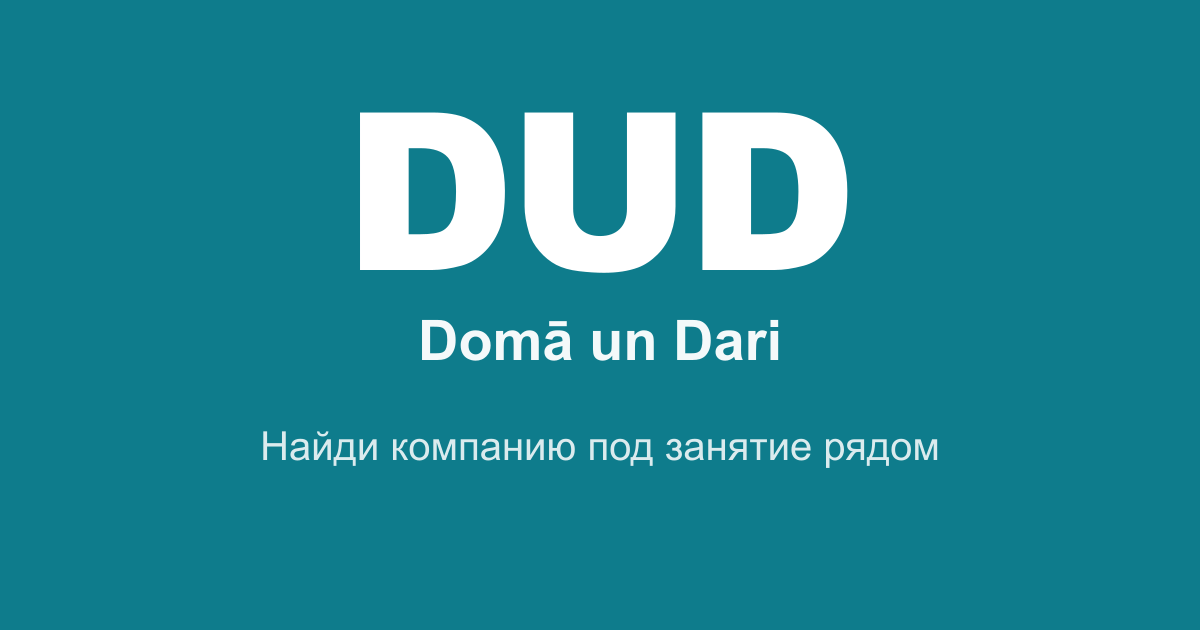
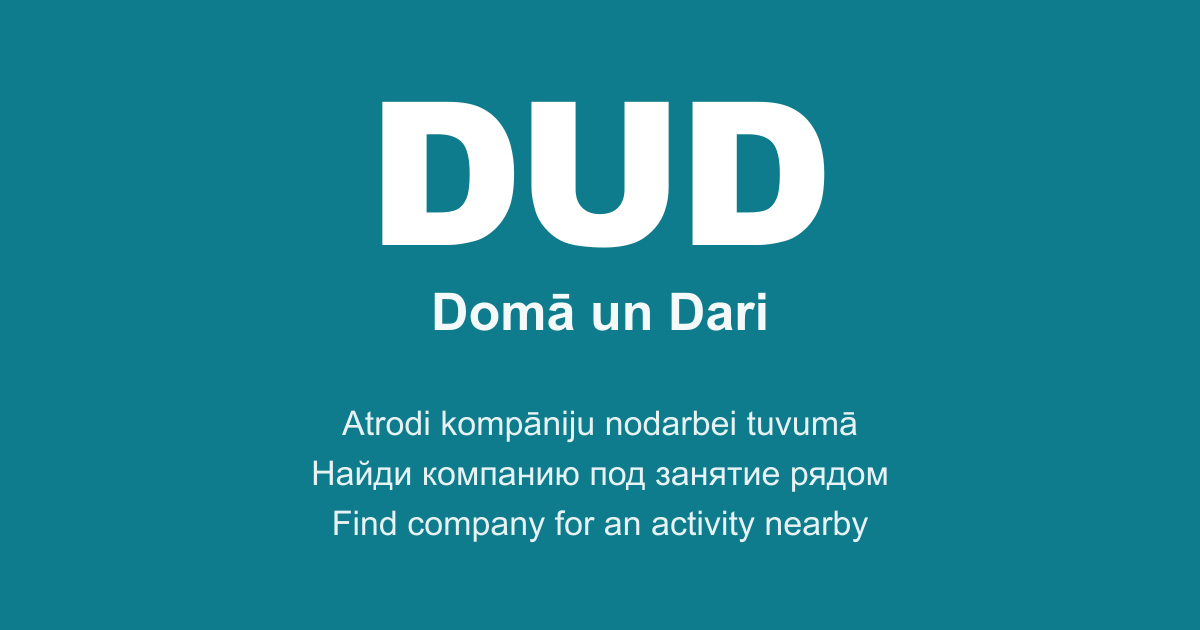
Trilingual link preview (LV / RU / EN)
OG image and meta description now show the tagline in Latvian, Russian and
English under DUD / Domā un Dari. Link previews are fetched once and cached
per-link (not personalized), so a fixed trilingual card fits Latvia's mix.

Changed region(s): [[0.2775, 0.1508, 0.7092, 0.573], [0.2158, 0.6333, 0.8017, 0.7841], [0.2775, 0.8143, 0.74, 0.8746]]

diff --git a/src/app/layout.tsx b/src/app/layout.tsx
@@ -20,11 +20,11 @@ const unbounded = Unbounded({
 export const metadata: Metadata = {
   metadataBase: new URL("https://dud.lv"),
   title: "DUD — Domā un Dari",
-  description: "Найди компанию под занятие рядом — кофе, спорт, прогулки.",
+  description: "Atrodi kompāniju nodarbei tuvumā · Найди компанию под занятие рядом · Find company for an activity nearby",
   manifest: "/manifest.json",
   openGraph: {
     title: "DUD — Domā un Dari",
-    description: "Найди компанию под занятие рядом — кофе, спорт, прогулки.",
+    description: "Atrodi kompāniju nodarbei tuvumā · Найди компанию под занятие рядом · Find company for an activity nearby",
     url: "https://dud.lv",
     siteName: "DUD",
     images: [{ url: "/og.png", width: 1200, height: 630 }],
@@ -33,7 +33,7 @@ export const metadata: Metadata = {
   twitter: {
     card: "summary_large_image",
     title: "DUD — Domā un Dari",
-    description: "Найди компанию под занятие рядом — кофе, спорт, прогулки.",
+    description: "Atrodi kompāniju nodarbei tuvumā · Найди компанию под занятие рядом · Find company for an activity nearby",
     images: ["/og.png"],
   },
   icons: {
